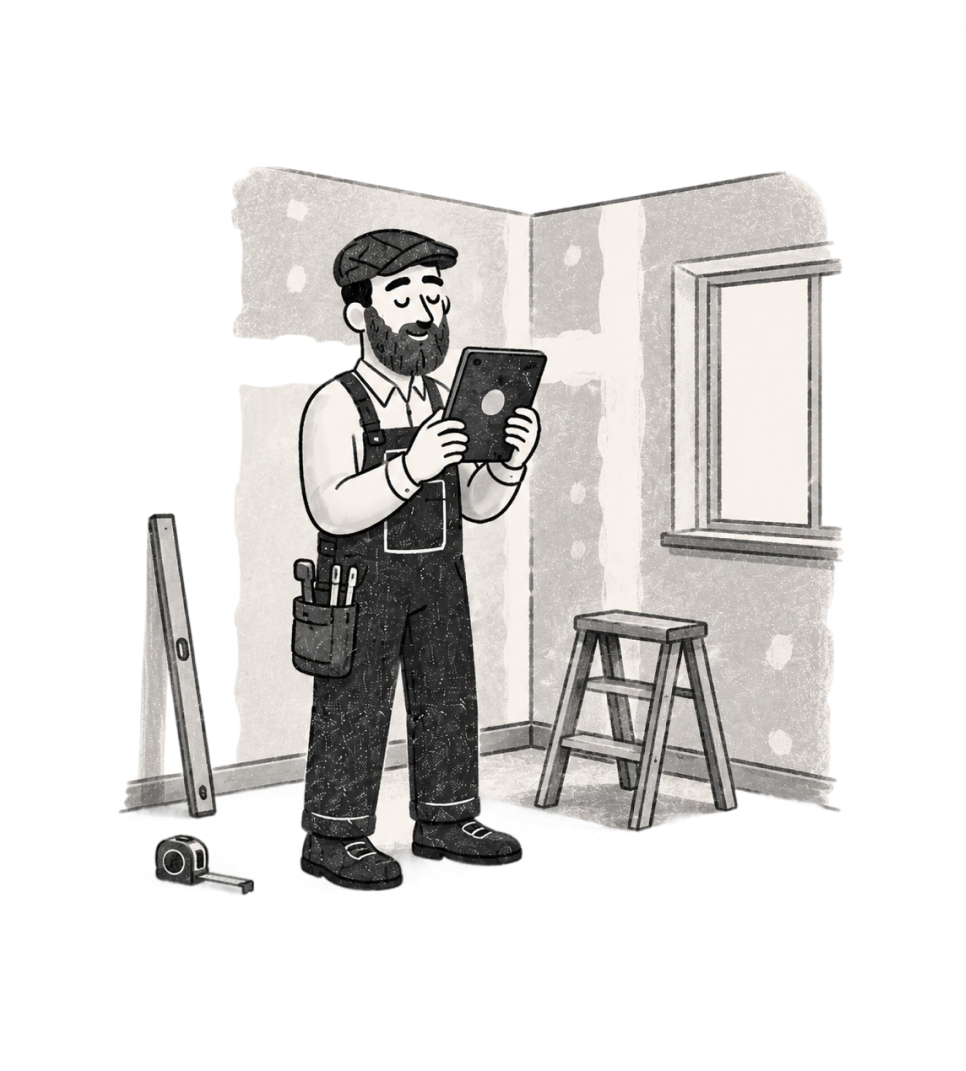
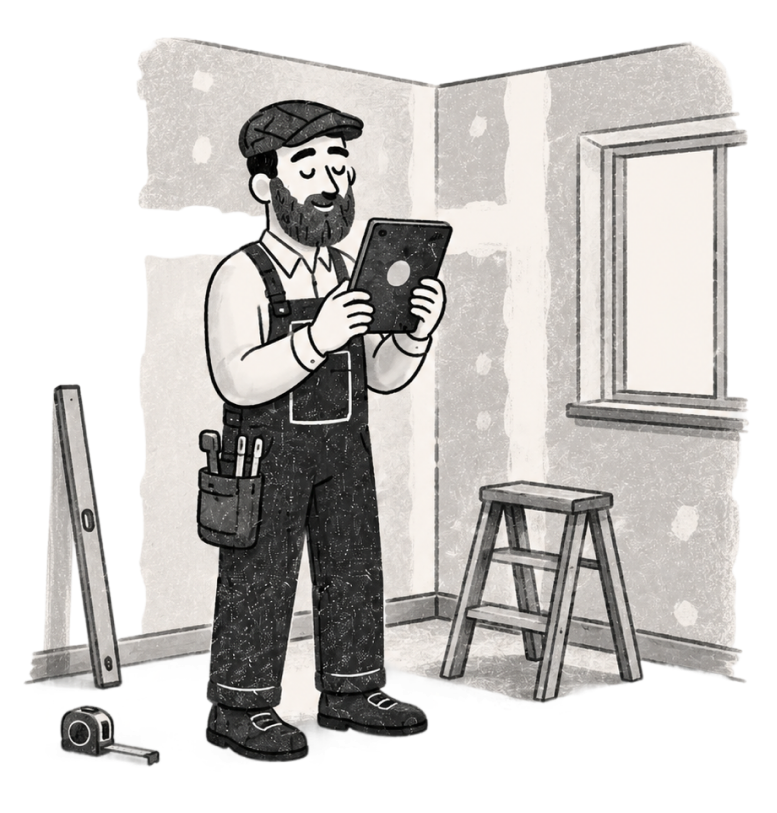
Light up the illustrations on card hover, drop the connector
Each card now carries its lit layer from Figma - the scanner beam on capture,
the screen glow on build and present - exported as SVG and pinned to a share
of its own illustration box, so it stays on the screen it belongs to at any
card width. The illustrations themselves were updated in Figma too, so those
came across with them.

The dashed connector is gone: it was doing the same job of tying the three
steps together, and the glow says it better.

diff --git a/work/houzz-3d-floor-plans.html b/work/houzz-3d-floor-plans.html
@@ -119,10 +119,6 @@ body.hzx { background: #f4f4f4; }
   line-height: 1.5; letter-spacing: -.022em; color: var(--title); margin: 0; }
 .hzx-cards { position: relative; margin-top: 22px;
   display: flex; align-items: center; justify-content: space-between; gap: 22px; }
-/* The dashed run that ties the three steps together. It draws OVER the cards
-   (Figma z-index 3); pointer-events:none keeps the cards clickable through it. */
-.hzx-connector { position: absolute; left: 203px; top: 133px; width: 595px; height: 171px;
-  z-index: 3; pointer-events: none; display: block; overflow: visible; }
 
 .hzx-card { flex: 0 1 324px; min-width: 0; background: #fff; border: 1px solid var(--line);
   border-radius: 12px; overflow: hidden; text-decoration: none; display: flex;
@@ -138,9 +134,24 @@ body.hzx { background: #f4f4f4; }
 .hzx-card:active { transform: translateY(-2px); transition-duration: 90ms; }
 .hzx-card__fig { height: 357px; padding: 16px; margin: 0;
   display: flex; align-items: center; justify-content: center; }
-.hzx-card__fig img { max-width: 100%; max-height: 100%; width: auto; height: auto; display: block;
+/* The illustration and its light layer share one box, so the glow stays pinned
+   to the screen it belongs to at any card width, and both scale together. */
+.hzx-card__art { position: relative; display: block; width: 100%;
   transition: transform 320ms cubic-bezier(.22, 1, .36, 1); }
-.hzx-card:hover .hzx-card__fig img, .hzx-card:focus-visible .hzx-card__fig img { transform: scale(1.035); }
+.hzx-card__illus { display: block; width: 100%; height: auto; }
+/* Positions come from the Figma frame, measured as a share of each
+   illustration's own box - see media/context/glow-*.svg */
+.hzx-card__glow { position: absolute; pointer-events: none;
+  /* Comes up slowly and eases off a little quicker, so it reads as light
+     warming rather than a layer switching on. */
+  opacity: 0; transition: opacity 380ms ease; }
+.hzx-card:hover .hzx-card__glow, .hzx-card:focus-visible .hzx-card__glow {
+  transition: opacity 900ms cubic-bezier(.33, .68, .31, 1); }
+.hzx-card:hover .hzx-card__art, .hzx-card:focus-visible .hzx-card__art { transform: scale(1.035); }
+.hzx-card:hover .hzx-card__glow, .hzx-card:focus-visible .hzx-card__glow { opacity: 1; }
+@media (prefers-reduced-motion: reduce) {
+  .hzx-card__art, .hzx-card__glow { transition: none; }
+}
 .hzx-card__foot { border-top: 1px solid var(--line); padding: 12px 16px;
   display: flex; align-items: center; gap: 4px; }
 .hzx-card__txt { flex: 1 1 0; min-width: 0; display: flex; flex-direction: column; gap: 4px; }
@@ -166,7 +177,6 @@ body.hzx { background: #f4f4f4; }
 /* ---------- Responsive ---------- */
 @media (max-width: 1000px) {
   /* The dashed run is positioned for the 1016 desktop track only */
-  .hzx-connector { display: none; }
   .hzx-chart { column-gap: 40px; }
 }
 @media (max-width: 900px) {
@@ -287,31 +297,10 @@ body.hzx { background: #f4f4f4; }
   </div>
 
   <div class="hzx-cards">
-    <!-- Inlined so the stroke can carry an animated gradient; same path as
-         media/context/hz-connector.svg -->
-    <svg class="hzx-connector" aria-hidden="true" focusable="false"
-         width="595" height="171" viewBox="0 0 595.887 172.988"
-         preserveAspectRatio="none" fill="none" xmlns="http://www.w3.org/2000/svg">
-      <defs>
-        <!-- Grey run with one warm pool in it. The script below slides the pool
-             along the line, and parks it over whichever card is hovered.
-             x1/x2 are the pool's edges; without JS it sits softly centred. -->
-        <linearGradient id="hzxFlow" gradientUnits="userSpaceOnUse" x1="148" y1="0" x2="448" y2="0">
-          <stop offset="0"    stop-color="#CBC7C0"/>
-          <stop offset="0.18" stop-color="#C08A62"/>
-          <stop offset="0.36" stop-color="#9E4E2C"/>
-          <stop offset="0.64" stop-color="#9E4E2C"/>
-          <stop offset="0.82" stop-color="#C08A62"/>
-          <stop offset="1"    stop-color="#CBC7C0"/>
-        </linearGradient>
-      </defs>
-      <path d="M595.157 108.253C578.889 125.617 433.273 242.545 257.52 108.253C173.901 44.361 79.8994 13.7028 0.157466 0.987524"
-            stroke="url(#hzxFlow)" stroke-width="2" stroke-dasharray="4.59 4.59"/>
-    </svg>
 
     <a class="hzx-card" href="multi-room-mobile-scan.html">
       <figure class="hzx-card__fig">
-        <img src="../media/context/hz-capture.png?v=2" alt="A contractor scanning a room with a tablet" width="966" height="1071">
+        <span class="hzx-card__art"><img class="hzx-card__illus" src="../media/context/hz-capture.png?v=3" alt="A contractor scanning a room with a tablet" width="777" height="813"><img class="hzx-card__glow" src="../media/context/glow-capture.svg" alt="" aria-hidden="true" style="left:49.98%;top:32.14%;width:45.19%;height:55.50%"></span>
       </figure>
       <div class="hzx-card__foot">
         <div class="hzx-card__txt">
@@ -324,7 +313,7 @@ body.hzx { background: #f4f4f4; }
 
     <a class="hzx-card" href="floor-plan-onboarding.html">
       <figure class="hzx-card__fig">
-        <img src="../media/context/hz-build.png?v=2" alt="A designer refining a floor plan on a desktop screen" width="966" height="1071">
+        <span class="hzx-card__art"><img class="hzx-card__illus" src="../media/context/hz-build.png?v=3" alt="A designer refining a floor plan on a desktop screen" width="756" height="738"><img class="hzx-card__glow" src="../media/context/glow-build.svg" alt="" aria-hidden="true" style="left:26.19%;top:5.28%;width:71.43%;height:62.20%"></span>
       </figure>
       <div class="hzx-card__foot">
         <div class="hzx-card__txt">
@@ -337,7 +326,7 @@ body.hzx { background: #f4f4f4; }
 
     <a class="hzx-card" href="ar-walkthrough.html">
       <figure class="hzx-card__fig">
-        <img src="../media/context/hz-present.png?v=2" alt="A pro showing a plan on a tablet to two clients at a table" width="966" height="1071">
+        <span class="hzx-card__art"><img class="hzx-card__illus" src="../media/context/hz-present.png?v=3" alt="A pro showing a plan on a tablet to two clients at a table" width="708" height="741"><img class="hzx-card__glow" src="../media/context/glow-present.svg" alt="" aria-hidden="true" style="left:23.94%;top:39.98%;width:54.24%;height:51.01%"></span>
       </figure>
       <div class="hzx-card__foot">
         <div class="hzx-card__txt">
@@ -359,78 +348,6 @@ body.hzx { background: #f4f4f4; }
     <a href="../assets/Roni-Brot-Kolinko-CV.pdf" download>Résumé ↓</a>
   </div>
 </footer>
-
-<script>
-/* The warm pool in the connector follows the pointer: hovering a card parks it
-   over that card, and with nothing hovered it drifts gently along the run.
-   The gradient's x1/x2 are plain SVG attributes, so this is driven per frame
-   rather than by CSS. */
-(function () {
-  var svg = document.querySelector('svg.hzx-connector');
-  var cards = Array.prototype.slice.call(document.querySelectorAll('.hzx-card'));
-  if (!svg || !cards.length) return;
-  var grad = svg.querySelector('#hzxFlow');
-  if (!grad) return;
-
-  var VB = 595.887;   // the connector's viewBox width
-  var BAND = 300;     // how wide the warm pool is, in those units
-  var reduce = window.matchMedia('(prefers-reduced-motion: reduce)').matches;
-
-  function place(x) {
-    grad.setAttribute('x1', (x - BAND / 2).toFixed(1));
-    grad.setAttribute('x2', (x + BAND / 2).toFixed(1));
-  }
-
-  /* Where the pool should sit for a given card. The line is narrower than the
-     card row - it runs from inside card 1 to inside card 3 - so a card's own
-     centre can fall outside it. Use the middle of the stretch of line the card
-     actually covers, which keeps the pool on the line for all three. */
-  function centreOf(card) {
-    var c = svg.getBoundingClientRect();
-    if (!c.width) return VB / 2;
-    var r = card.getBoundingClientRect();
-    var l = Math.max(r.left, c.left);
-    var rt = Math.min(r.right, c.right);
-    var mid = (rt > l) ? (l + rt) / 2 : (r.left < c.left ? c.left : c.right);
-    return (mid - c.left) * (VB / c.width);
-  }
-
-  var hovered = null;
-  cards.forEach(function (card) {
-    function on()  { hovered = card; if (reduce) place(centreOf(card)); }
-    function off() { if (hovered === card) { hovered = null; if (reduce) place(VB / 2); } }
-    card.addEventListener('mouseenter', on);
-    card.addEventListener('mouseleave', off);
-    card.addEventListener('focus', on);
-    card.addEventListener('blur', off);
-  });
-
-  // Reduced motion: the pool still answers hover, it just never drifts on its own
-  if (reduce) { place(VB / 2); return; }
-
-  var pos = VB / 2, phase = 0, last = 0;
-  place(pos);
-
-  function frame(now) {
-    var dt = last ? Math.min(now - last, 50) : 16;
-    last = now;
-
-    var target;
-    if (hovered) {
-      target = centreOf(hovered);
-    } else {
-      phase += (dt / 7000) * Math.PI * 2;              // 7s round trip
-      target = VB / 2 + Math.sin(phase) * (VB / 2);
-    }
-
-    // frame-rate independent easing, ~180ms to settle
-    pos += (target - pos) * (1 - Math.exp(-dt / 180));
-    place(pos);
-    requestAnimationFrame(frame);
-  }
-  requestAnimationFrame(frame);
-})();
-</script>
 
 <script>
 // Grow the user bars once, the first time the chart scrolls into view.
